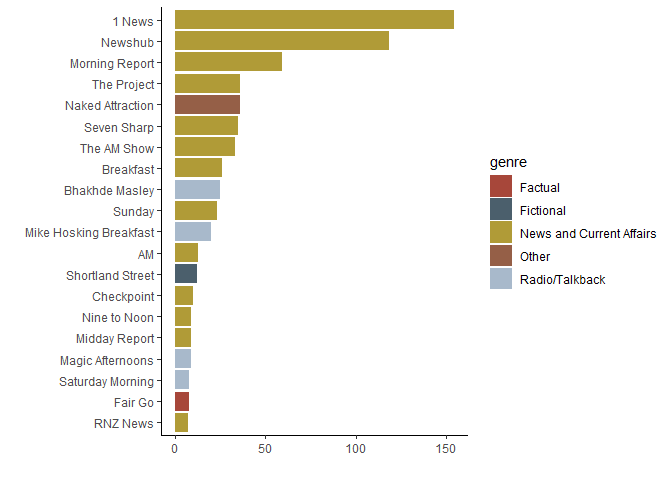
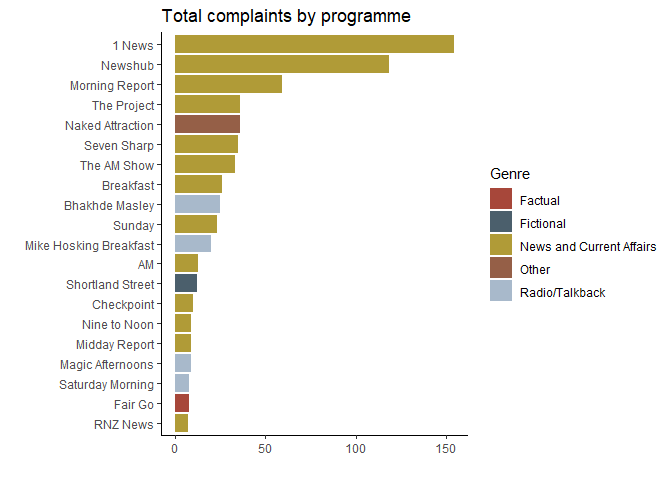
Add more plots

Changed region(s): [[0.0312, 0.0, 0.6875, 0.9062], [0.7188, 0.3125, 0.9688, 0.625]]

diff --git a/bsa.md b/bsa.md
@@ -116,6 +116,8 @@ bsa_full <- bsa_full |>
   )
 ```
 
+Merge `code` and `tv_radio`.
+
 ``` r
 # Recode 'code' as 'either 'Television' or 'Radio', move to 'tv_radio' column to align with new codebook, then delete 'code' column.
 
@@ -127,7 +129,11 @@ bsa_full$code <- recode(bsa_full$code,
 bsa_full$tv_radio <- coalesce(bsa_full$code, bsa_full$tv_radio)
 
 bsa_full <- select(bsa_full, -code)
+```
 
+Add missing values.
+
+``` r
 # Remove asterisk and whitespace from columns containing them.
 
 bsa_full <- bsa_full |> 
@@ -251,7 +257,7 @@ bsa_full <- bsa_full |>
 bsa_full[65,17] <- "not_upheld"
 ```
 
-Plots
+Plots.
 
 ``` r
 ggplot(bsa_full, aes(x = complaint_year, fill = determination)) +
@@ -314,7 +320,7 @@ ggplot(summary2, aes(x = fct_reorder(name, upheld_pc), y = upheld_pc, fill = fac
   ylab("") +
   theme(plot.caption = element_text(hjust = 0)) +
   labs(title = "Proportion of standards upheld",
-       caption = "Complaints can refer to multiple standards, and particular standards can be upheld or not upheld.\nNumbers are total counts of standards.") +
+       caption = "Complaints can refer to multiple standards, and particular standards can be upheld or not upheld.\nThe total number of times a standard is considered as part of a complaint is shown to the left of the bar.") +
   guides(fill=FALSE)
 ```
 
@@ -328,6 +334,19 @@ top_prog <- bsa_full |>
   arrange(desc(n)) |> 
   slice_head(n = 20)
 
+ggplot(top_prog, aes(x = fct_reorder(programme, n), y = n, fill = genre)) +
+  geom_col() +
+  coord_flip() +
+  scale_fill_manual(values = get_pal("Kaka")) +
+  theme_classic() +
+  xlab("") +
+  ylab("") +
+  labs(title = "Total complaints by programme", fill = "Genre")
+```
+
+![](figs/top-programmes-1.png)
+
+``` r
 # Normalise to average viewership - values are a rough guide from Google
 
 top_prog <- top_prog |> 
@@ -342,18 +361,6 @@ top_prog <- top_prog |>
                            programme == "Shortland Street" ~ "344000")
   )
 
-ggplot(top_prog, aes(x = fct_reorder(programme, n), y = n, fill = genre)) +
-  geom_col() +
-  coord_flip() +
-  scale_fill_manual(values = get_pal("Kaka")) +
-  theme_classic() +
-  xlab("") +
-  ylab("")
-```
-
-![](figs/top-programmes-1.png)
-
-``` r
 top_prog$viewership <- as.numeric(top_prog$viewership)
 
 viewers <- top_prog |> 
@@ -362,13 +369,43 @@ viewers <- top_prog |>
     pc = n / viewership) |> 
   arrange(desc(pc))
 
-ggplot(viewers, aes(x = fct_reorder(programme, pc), y = pc)) +
+ggplot(viewers, aes(x = fct_reorder(programme, pc), y = pc, fill = factor(pc))) +
   geom_col() +
   coord_flip() +
   theme_classic() +
   xlab("") +
   ylab("") +
-  scale_y_continuous(labels = percent)
+  scale_y_continuous(labels = percent) +
+  scale_fill_manual(values = rep("#955F47", 8)) +
+  guides(fill=FALSE) +
+  labs(title = "Total complaints as a proportion of average viewership")
 ```
 
-![](figs/unnamed-chunk-17-1.png)
+![](figs/complaints-by-viewership-1.png)
+
+``` r
+# Filter to top 9
+
+top6 <- bsa_full |> 
+  group_by(broadcaster) |> 
+  tally() |> 
+  arrange(desc(n)) |> 
+  slice_head(n = 6)
+
+broadcast <- bsa_full |> 
+  filter(broadcaster %in% top6$broadcaster) |> 
+  group_by(broadcaster,complaint_year) |> 
+  tally() |> 
+  arrange(complaint_year)
+
+broadcast$complaint_year <- as.numeric(broadcast$complaint_year)
+
+ggplot(broadcast, aes(x = complaint_year, y = n, colour = broadcaster)) +
+  geom_line() +
+  theme_classic() +
+  labs(title = "Complaints over time by major broadcaster", colour = "Broadcaster") +
+  xlab("") +
+  ylab("")
+```
+
+![](figs/complaints-by-broadcaster-1.png)
